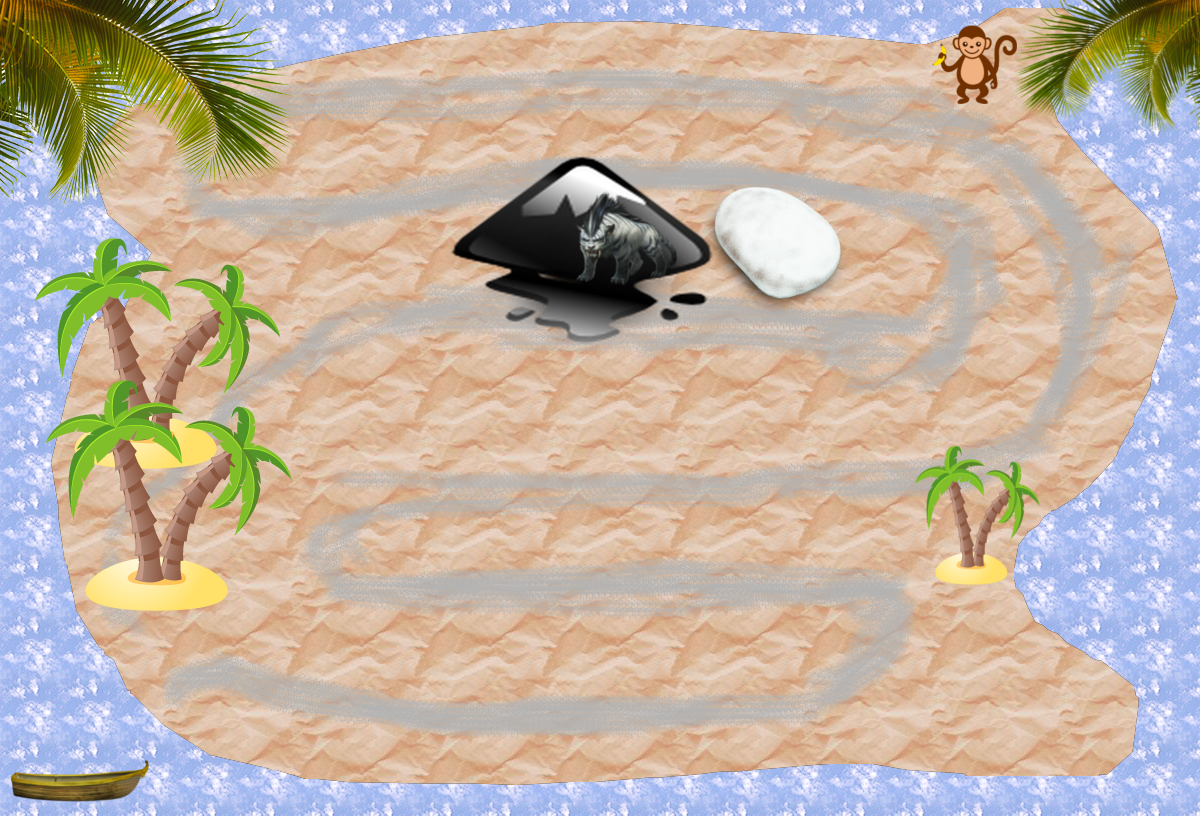
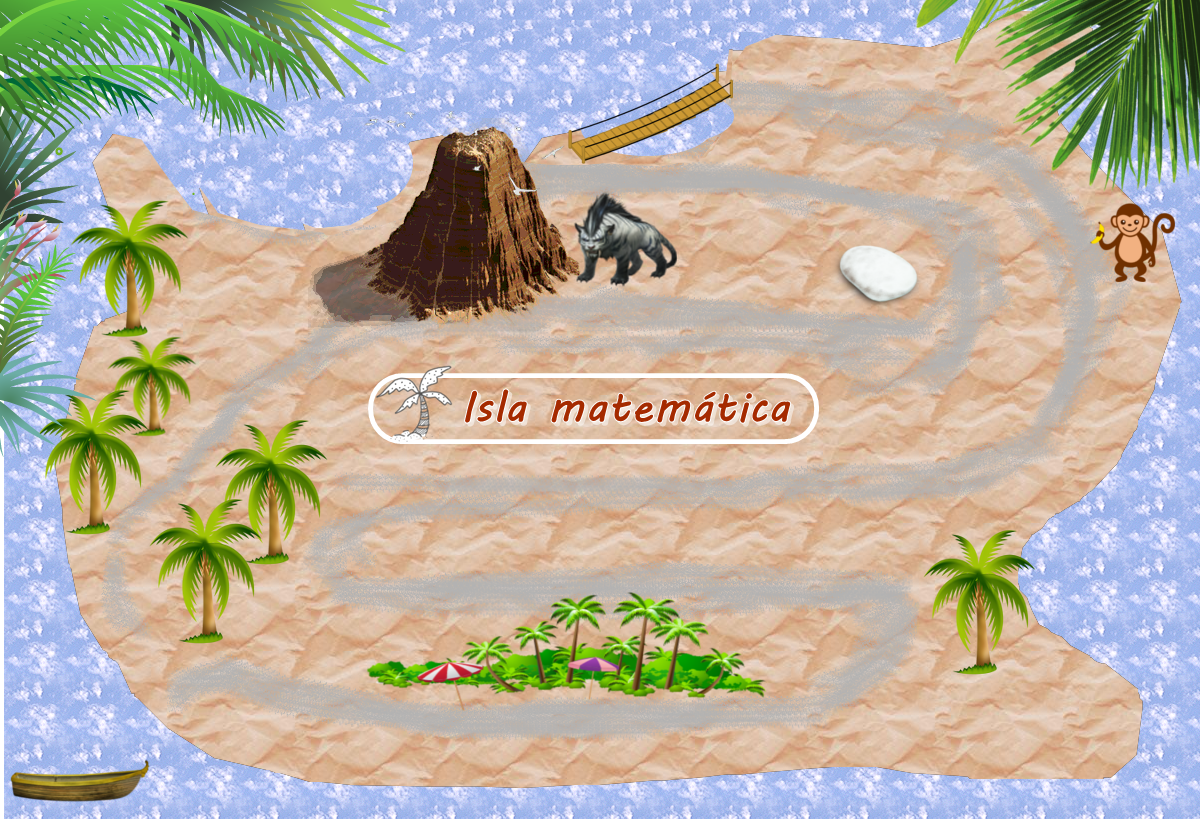
Fields created and Background changed

diff --git a/index.html b/index.html
@@ -52,9 +52,9 @@ var circleData = [
   { "cx": 330, "cy": 720, "radius": 30, "color" : "khaki", "fontcolor" : "white", "number" : 5},
   { "cx": 400, "cy": 720, "radius": 30, "color" : "khaki", "fontcolor" : "black", "number" : 6},
   { "cx": 470, "cy": 720, "radius": 30, "color" : "khaki", "fontcolor" : "black", "number" : 7},
-  { "cx": 540, "cy": 700, "radius": 30, "color" : "khaki", "fontcolor" : "black", "number" : 8},
-  { "cx": 610, "cy": 700, "radius": 30, "color" : "lavender", "fontcolor" : "white", "number" : 9},
-  { "cx": 680, "cy": 700, "radius": 30, "color" : "khaki", "fontcolor" : "white", "number" :10},
+  { "cx": 540, "cy": 720, "radius": 30, "color" : "khaki", "fontcolor" : "black", "number" : 8},
+  { "cx": 610, "cy": 720, "radius": 30, "color" : "lavender", "fontcolor" : "white", "number" : 9},
+  { "cx": 680, "cy": 720, "radius": 30, "color" : "khaki", "fontcolor" : "white", "number" :10},
   { "cx": 750, "cy": 700, "radius": 30, "color" : "lavender", "fontcolor" : "black", "number" : 11},
   { "cx": 820, "cy": 680, "radius": 30, "color" : "khaki", "fontcolor" : "black", "number" : 12},
   { "cx": 890, "cy": 660, "radius": 30, "color" : "khaki", "fontcolor" : "black", "number" : 13},
@@ -86,11 +86,28 @@ var circleData = [
   { "cx": 920, "cy": 110, "radius": 30, "color" : "mediumaquamarine", "fontcolor" : "black", "number" : 39},
   { "cx": 850, "cy": 100, "radius": 30, "color" : "mediumaquamarine", "fontcolor" : "black", "number" : 40},
   { "cx": 780, "cy": 100, "radius": 30, "color" : "mediumaquamarine", "fontcolor" : "black", "number" : 41},
-  { "cx": 710, "cy": 100, "radius": 30, "color" : "mediumaquamarine", "fontcolor" : "black", "number" : 42},
-  { "cx": 640, "cy": 100, "radius": 30, "color" : "mediumaquamarine", "fontcolor" : "black", "number" : 43},
-  { "cx": 570, "cy": 100, "radius": 30, "color" : "mediumaquamarine", "fontcolor" : "black", "number" : 44},
-  { "cx": 500, "cy": 100, "radius": 30, "color" : "mediumaquamarine", "fontcolor" : "black", "number" : 45},
-  { "cx": 1120, "cy": 60, "radius": 30, "color" : "purple", "fontcolor" : "black", "number" : 90}];
+  { "cx": 550, "cy": 170, "radius": 30, "color" : "mediumaquamarine", "fontcolor" : "black", "number" : 42},
+  { "cx": 620, "cy": 170, "radius": 30, "color" : "mediumaquamarine", "fontcolor" : "black", "number" : 43},
+  { "cx": 690, "cy": 170, "radius": 30, "color" : "mediumaquamarine", "fontcolor" : "black", "number" : 44},
+  { "cx": 760, "cy": 170, "radius": 30, "color" : "mediumaquamarine", "fontcolor" : "black", "number" : 45},
+  { "cx": 830, "cy": 180, "radius": 30, "color" : "mediumaquamarine", "fontcolor" : "black", "number" : 46},
+  { "cx": 900, "cy": 190, "radius": 30, "color" : "mediumaquamarine", "fontcolor" : "black", "number" : 47},
+  { "cx": 970, "cy": 220, "radius": 30, "color" : "mediumaquamarine", "fontcolor" : "black", "number" : 48},
+  { "cx": 970, "cy": 290, "radius": 30, "color" : "mediumaquamarine", "fontcolor" : "black", "number" : 49},
+  { "cx": 920, "cy": 340, "radius": 30, "color" : "mediumaquamarine", "fontcolor" : "black", "number" : 50},
+  { "cx": 850, "cy": 340, "radius": 30, "color" : "mediumaquamarine", "fontcolor" : "black", "number" : 51},
+  { "cx": 780, "cy": 330, "radius": 30, "color" : "mediumaquamarine", "fontcolor" : "black", "number" : 52},
+  { "cx": 710, "cy": 330, "radius": 30, "color" : "mediumaquamarine", "fontcolor" : "black", "number" : 53},
+  { "cx": 640, "cy": 330, "radius": 30, "color" : "mediumaquamarine", "fontcolor" : "black", "number" : 54},
+  { "cx": 570, "cy": 330, "radius": 30, "color" : "mediumaquamarine", "fontcolor" : "black", "number" : 55},
+  { "cx": 500, "cy": 330, "radius": 30, "color" : "mediumaquamarine", "fontcolor" : "black", "number" : 56},
+  { "cx": 430, "cy": 330, "radius": 30, "color" : "mediumaquamarine", "fontcolor" : "black", "number" : 57},
+  { "cx": 360, "cy": 330, "radius": 30, "color" : "mediumaquamarine", "fontcolor" : "black", "number" : 58},
+  { "cx": 290, "cy": 350, "radius": 30, "color" : "mediumaquamarine", "fontcolor" : "black", "number" : 59},
+  { "cx": 220, "cy": 420, "radius": 30, "color" : "mediumaquamarine", "fontcolor" : "black", "number" : 60},
+  { "cx": 170, "cy": 490, "radius": 30, "color" : "mediumaquamarine", "fontcolor" : "black", "number" : 61},
+  { "cx": 130, "cy": 560, "radius": 30, "color" : "mediumaquamarine", "fontcolor" : "black", "number" : 62},
+  { "cx": 140, "cy": 630, "radius": 30, "color" : "purple", "fontcolor" : "black", "number" : 63}];
 
 //Create the SVG Viewport
 var svgContainer = d3.select("body").append("svg").attr("id","maingamesvg")
